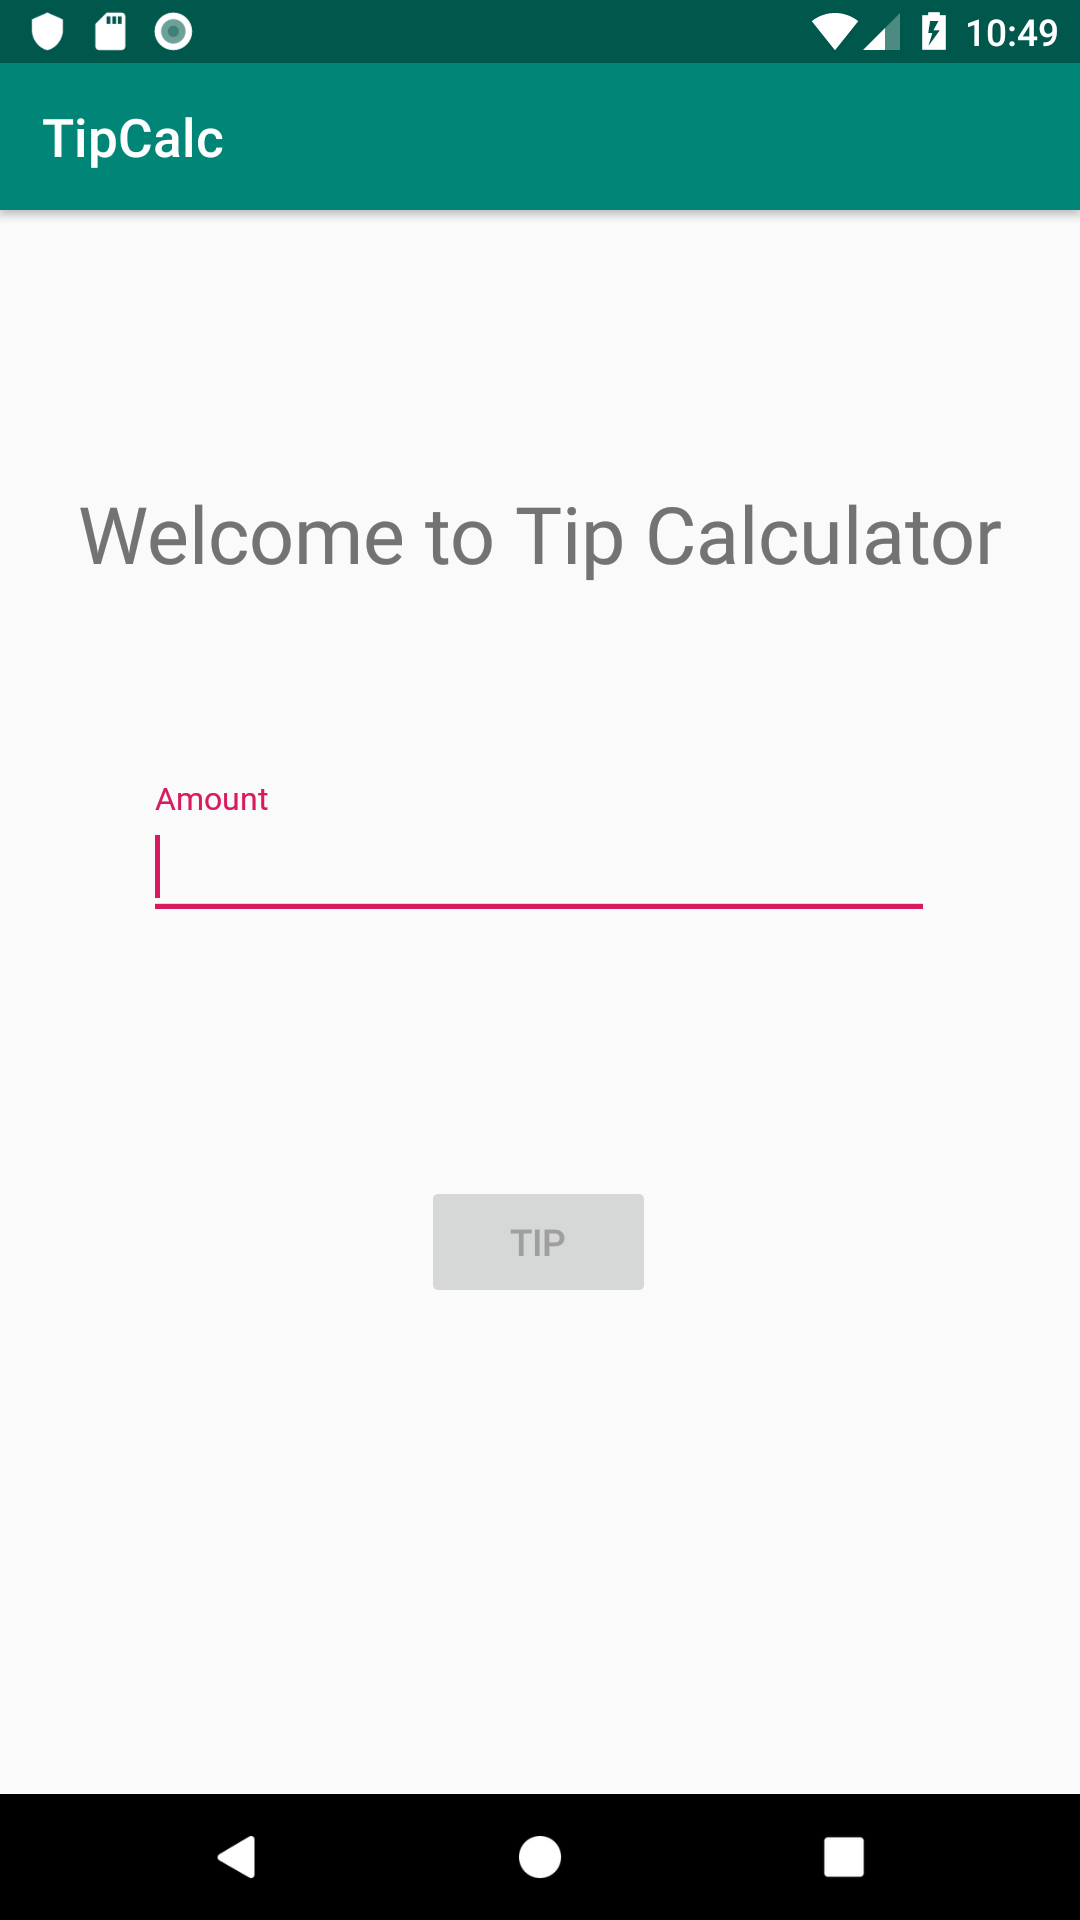
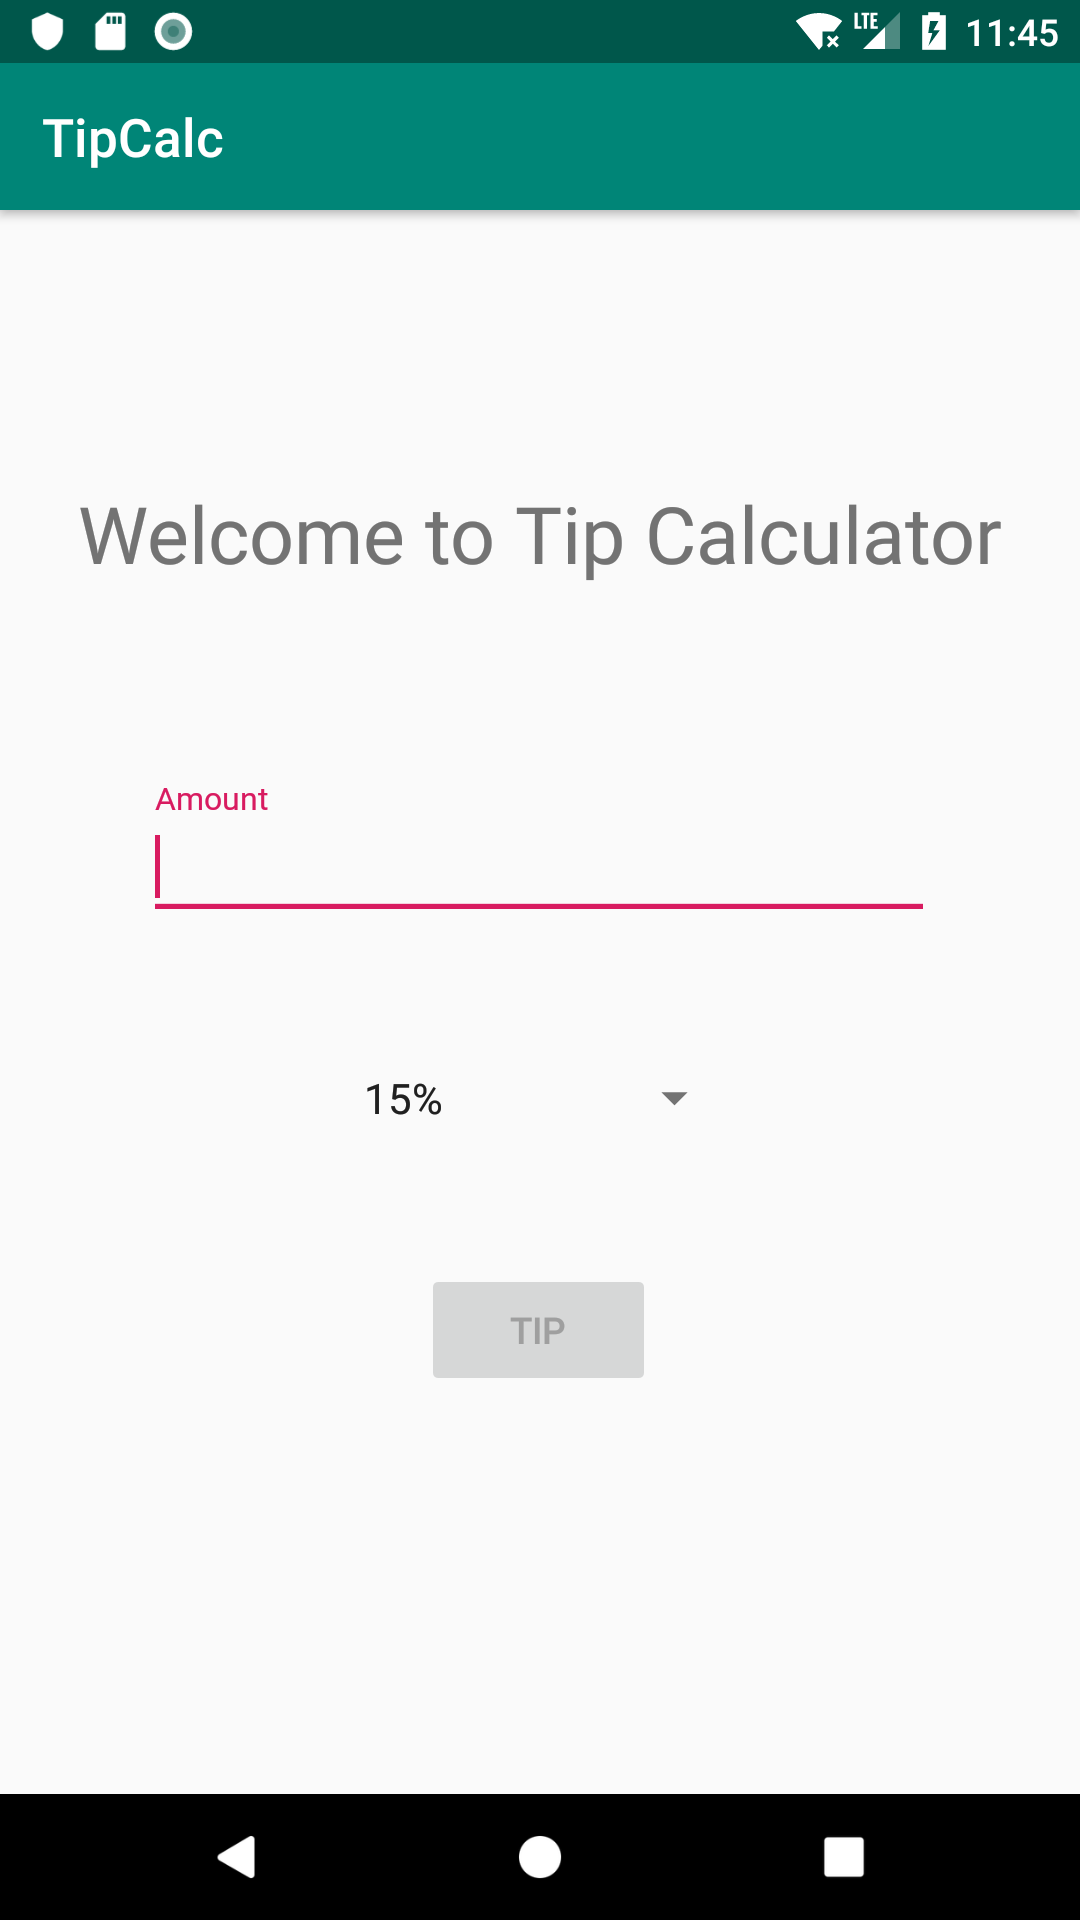
Add spinner

diff --git a/app/src/main/java/edu/washington/minhsuan/tipcalc/MainActivity.kt b/app/src/main/java/edu/washington/minhsuan/tipcalc/MainActivity.kt
@@ -4,31 +4,47 @@ import android.support.v7.app.AppCompatActivity
 import android.os.Bundle
 import android.text.Editable
 import android.text.TextWatcher
-import android.widget.Button
-import android.widget.EditText
-import android.widget.Toast
+import android.view.View
+import android.widget.*
 import java.text.NumberFormat
-import java.util.*
-
+import android.widget.AdapterView
 
 class MainActivity : AppCompatActivity() {
-    private val percentage: Double = 0.15
     private val cur : Regex = Regex("[$,.]")
+    private var percentage: Double = 0.15
 
     override fun onCreate(savedInstanceState: Bundle?) {
         super.onCreate(savedInstanceState)
         setContentView(R.layout.activity_main)
 
+        val spinner: Spinner = findViewById(R.id.spinner)
+        ArrayAdapter.createFromResource(
+            this,
+            R.array.percent_array,
+            android.R.layout.simple_spinner_item
+        ).also { adapter ->
+            adapter.setDropDownViewResource(android.R.layout.simple_spinner_dropdown_item)
+            spinner.adapter = adapter
+        }
+        spinner.setSelection(1)
+        spinner.onItemSelectedListener = object : AdapterView.OnItemSelectedListener {
+            override fun onNothingSelected(parent: AdapterView<*>?) {
+            }
+
+            override fun onItemSelected(parent: AdapterView<*>?, view: View?, position: Int, id: Long) {
+                if (parent != null) {
+                    percentage = parent.getItemAtPosition(position).toString().substring(0, 2).toDouble() / 100
+                }
+            }
+
+        }
+
         val tipBtn = findViewById<Button>(R.id.btnTip)
         tipBtn.isEnabled = false
-        val txtBox = findViewById<EditText>(R.id.txtInput)
 
+        val txtBox = findViewById<EditText>(R.id.txtInput)
         txtBox.addTextChangedListener(object: TextWatcher {
             override fun afterTextChanged(s: Editable?) {
-                //val format = NumberFormat.getCurrencyInstance(Locale.US)
-                //txtBox.setText(format.format(s.toString()))
-//                NumberFormat.getInstance(Locale.US)
-//                txtBox.setText("$" + txtBox.getText().toString())
                 tipBtn.isEnabled = true
             }
 
